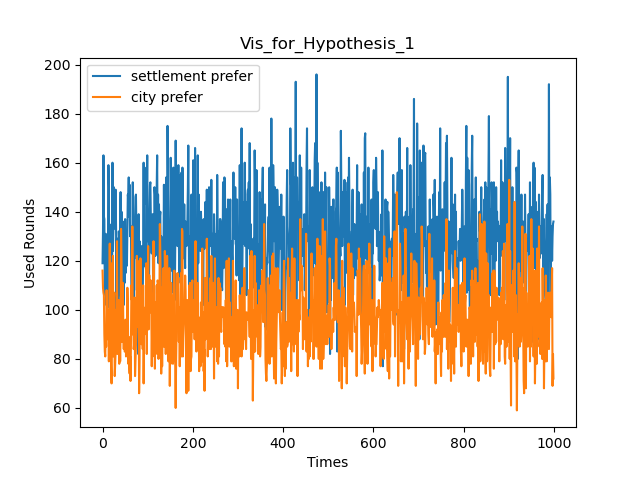
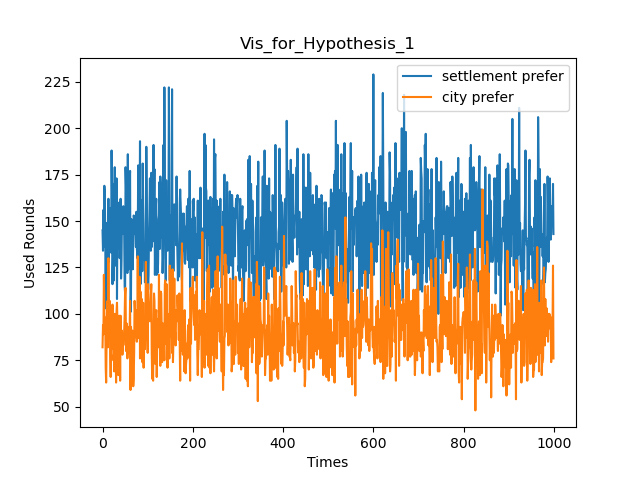
add function to store border csv file

diff --git a/Catan_basic.py b/Catan_basic.py
@@ -2,6 +2,9 @@ import random
 import pandas as pd
 from Elements import Player, Terrain, Point
 import matplotlib.pyplot as plt
+import warnings
+import csv
+warnings.filterwarnings('ignore')
 
 
 def roll_dice() -> int:
@@ -48,16 +51,6 @@ def initiate_map(default_setting_url):
     for [idx, point] in t_p_data:
         t_p[idx - 1].append(point - 1)
     return p_h, p_p, t_p
-
-
-def simulation(player: Player, resourcelist: dict, target_point=10):
-    # simulate a round process
-    if player.vp == target_point:
-        # if it reaches vp point, just return the point and return
-        raise NotImplemented
-    else:
-        # start running simulation
-        num = roll_dice() + roll_dice()
 
 
 def get_terrain_resource():
@@ -192,11 +185,6 @@ def player_generater(point_probability_sort_list, pp, point_terrain_dict, idx_te
     return player
 
 
-def simulation_single_round(player: Player, pp, tp, ph, terrain_type_list, idx_terrain_dict, point_terrain_dict,
-                            simulation_times=1000):
-    return 0
-
-
 def own_harbor(player, harbor_point_list):
     possible_point = player.settlements.copy()
     possible_point.extend(player.cities)
@@ -226,7 +214,7 @@ def city_possible(player: Player, harbor_point_list):
     target_list = [2, 3]
 
     resource_lack = 0
-    resource_turn = 0 # source could get via trading
+    resource_turn = 0  # source could get via trading
 
     for idx in range(5):
         # check if the needed resource is redundant
@@ -711,6 +699,13 @@ def get_resource(player: Player, terrain_dict: dict) -> None:
         for building_point in player_buildings:
             for [des_point_list, point_resource] in terrain_resources:
                 player.resources_list[point_resource] += 2 if building_point in des_point_list else 0
+    # else: # dice_num == 7
+    #     # if the dice rolls 7, player must discard resources if the resources number larger than 7
+    #     # hypothesis: player always discard the most resources type
+    #     discard_num = sum(player.resources_list) // 2
+    #     while discard_num > 0:
+    #         player.discard_one_resource()
+    #         discard_num -= 1
 
 
 def get_rec_list(player: Player):
@@ -852,6 +847,41 @@ def vis_two_round(round_rec1: list, round_rec2: list, round1_type: str, round2_t
     plt.close()
 
 
+def board_save(point_terrain_dict: dict, idx_terrain_dict:dict) -> None:
+    """
+    Save the current board situation into a csv file
+    :param point_terrain_dict:
+    :return: an output csv file stores the current board situation
+    """
+    # default setting
+    header = [["Resource"]]
+    for i in range(2, 13, 1):
+        header[0].append(i)
+    resource_list = [["Brick"], ["Lumber"], ["Ore"], ["Grain"], ["Wool"]]
+    for resource in resource_list:
+        for i in range(2, 13, 1):
+            resource.append(0)
+    # add number into resources
+    for point, terrains in point_terrain_dict.items():
+        for terrainidx in terrains:
+            terrain = idx_terrain_dict[terrainidx]
+            if terrain.resource == 5: continue # find dessert
+            resource_list[terrain.resource][terrain.num - 1] += 1
+
+    for resourceli in resource_list:
+        header.append(resourceli)
+
+    # display resource situation
+    print(header)
+    for resource in resource_list:
+        print(resource)
+
+    # stroe situation into a csvfile
+    with open('data/output/border.csv', 'w', newline='') as file:
+        writer = csv.writer(file, quoting=csv.QUOTE_ALL, delimiter=',')
+        writer.writerows(header)
+
+
 if __name__ == '__main__':
     """
     Variable for all used data structures
@@ -894,7 +924,12 @@ if __name__ == '__main__':
     idx_terrain_dict, terrain_dict = generate_terrain_dict(terrain_type_list, terrain_number_list, tp)
     point_terrain_dict, point_probability, point_probability_sort_list = point_terrain_creator(tp, idx_terrain_dict)
 
-    simulation_times = 1000
+    ## store the current board situation
+    board_save(point_terrain_dict, idx_terrain_dict)
+
+    ## simulation part
+
+    simulation_times, max_round, vp, epoch = 1000, 300, 10, 50
     val1 = []
     val2 = []
 
@@ -905,10 +940,10 @@ if __name__ == '__main__':
                                    point_probability)
 
         times1, game_pass, vp_rec, set_rec, city_rec, road_rec, brick_rec, lum_rec, ore_rec, grain_rec, wool_rec = settlement_simulation(
-            player1, terrain_dict, point_probability, pp, harbor_point_list, max_round=200, vp=10, epoch=50)
+            player1, terrain_dict, point_probability, pp, harbor_point_list, max_round=max_round, vp=vp, epoch=epoch)
         times2, game_pass, vp_rec, set_rec, city_rec, road_rec, brick_rec, lum_rec, ore_rec, grain_rec, wool_rec \
-            = city_simulation(player2, terrain_dict, point_probability, pp, harbor_point_list, max_round=200, vp=10,
-                              epoch=50)
+            = city_simulation(player2, terrain_dict, point_probability, pp, harbor_point_list, max_round=max_round,
+                              vp=vp, epoch=epoch)
 
         val1.append(times1)
         val2.append(times2)
@@ -916,7 +951,7 @@ if __name__ == '__main__':
     vis_two_round(val1, val2, "settlement prefer", "city prefer", 1, simulation_times=simulation_times)
 
     # hypothesis 2 simulation:
-    simulation_times = 1000
+    simulation_times, max_round, vp, epoch = 1000, 300, 10, 50
     val1 = []
     val2 = []
 
@@ -927,10 +962,11 @@ if __name__ == '__main__':
                                    point_probability)
 
         times1, game_pass, vp_rec, set_rec, city_rec, road_rec, brick_rec, lum_rec, ore_rec, grain_rec, wool_rec = harbor_simulation(
-            player1, terrain_dict, point_probability, pp, harbor_point_list, max_round=200, vp=10, epoch=50)
+            player1, terrain_dict, point_probability, pp, harbor_point_list, max_round=max_round, vp=vp, epoch=epoch)
         times2, game_pass, vp_rec, set_rec, city_rec, road_rec, brick_rec, lum_rec, ore_rec, grain_rec, wool_rec \
-            = city_simulation(player2, terrain_dict, point_probability, pp, harbor_point_list, max_round=200, vp=10,
-                              epoch=50)
+            = city_simulation(player2, terrain_dict, point_probability, pp, harbor_point_list, max_round=max_round,
+                              vp=vp,
+                              epoch=epoch)
 
         val1.append(times1)
         val2.append(times2)

diff --git a/Elements.py b/Elements.py
@@ -89,6 +89,11 @@ class Player:
         elif trade_type == 1:
             self.resources_list[resource_id_have] -= 2
 
+    def discard_one_resource(self):
+        max_num = max(self.resources_list)
+        max_idx = self.resources_list.index(max_num)
+        self.resources_list[max_idx] -= 1
+
     def print_player(self):
         print(f'player vp: {self.vp}, settlement list: {self.settlements}, city list: {self.cities} \n'
               f'reachable points list: {self.reachable_points} \n'
